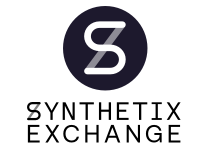
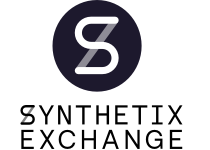
add dark mode images

Changed region(s): [[0.0857, 0.6667, 0.8857, 1.0], [0.2286, 0.0, 0.7143, 0.6133], [0.6, 0.08, 0.6286, 0.1067]]

diff --git a/src/utils/images.js b/src/utils/images.js
@@ -69,9 +69,9 @@ const oneinchDarkMonochrome = require('assets/images/exchangeProviders/oneinchDa
 const synthetixLightVertical = require('assets/images/exchangeProviders/synthetixLightVertical.png');
 const synthetixLightHorizontal = require('assets/images/exchangeProviders/synthetixLightHorizontal.png');
 const synthetixLightMonochrome = require('assets/images/exchangeProviders/synthetixLightMonochrome.png');
-// const synthetixDarkVertical = require('assets/images/exchangeProviders/synthetixDarkVertical.png');
-// const synthetixDarkHorizontal = require('assets/images/exchangeProviders/synthetixDarkHorizontal.png');
-// const synthetixDarkMonochrome = require('assets/images/exchangeProviders/synthetixDarkMonochrome.png');
+const synthetixDarkVertical = require('assets/images/exchangeProviders/synthetixDarkVertical.png');
+const synthetixDarkHorizontal = require('assets/images/exchangeProviders/synthetixDarkHorizontal.png');
+const synthetixDarkMonochrome = require('assets/images/exchangeProviders/synthetixDarkMonochrome.png');
 
 // patterns
 const landingPattern = require('assets/images/patterns/onboarding_pattern_top.png');
@@ -170,9 +170,9 @@ export const staticImages = {
   synthetixLightVertical,
   synthetixLightHorizontal,
   synthetixLightMonochrome,
-  // synthetixDarkVertical,
-  // synthetixDarkHorizontal,
-  // synthetixDarkMonochrome,
+  synthetixDarkVertical,
+  synthetixDarkHorizontal,
+  synthetixDarkMonochrome,
 };
 
 export const isSvgImage = (uri: ?string) => {
